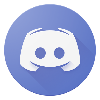
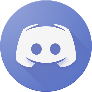
Fix some border issues also remove reddit

diff --git a/index.html b/index.html
@@ -42,9 +42,8 @@
             <div class="text-container">
                 <div class="text-box">
                     <a href="https://github.com/ShrimpyStuff" target="_blank" rel="noopener noreferrer"><img class="social-link" src="images/github_image.png"></a>
-                    <a href="https://reddit.com/user/FirstFeather834" target="_blank" rel="noopener noreferrer"><img class="social-link" src="images/reddit_image.png"></a>
-                    <a href="https://discord.id/?prefill=675391536451682324" target="_blank" rel="noopener noreferrer"><img class="social-link" src="images/discord_image.png"></a>
-                    <a href="https://twitter.com/SajidMonowar" target="_blank" rel="noopener noreferrer"><img class="social-link" src="images/twitter_image.png"></a>
+                    <a title="@servantchild" href="https://discordlookup.com/user/675391536451682324" target="_blank" rel="noopener noreferrer"><img class="social-link" src="images/discord_image.png"></a>
+                    <a title="I'm not using the X logo" href="https://twitter.com/SajidMonowar" target="_blank" rel="noopener noreferrer"><img class="social-link" src="images/twitter_image.png"></a>
                     <a href="https://instagram.com/sajidmonowar16" target="_blank" rel="noopener noreferrer"><img class="social-link" src="images/instagram_image.png"></a>
                 </div>
             </div>

diff --git a/index.css b/index.css
@@ -76,12 +76,11 @@ section#title {
 }
 
 .social-link:hover {
-	box-shadow: 10px 10px 50px grey;
+	box-shadow: 0px 0px 50px grey;
 }
 .social-link {
 	border-radius: 50%;
 	width: 9%;
-	height: 9%;
 }
 
 #scrollIndicator {
